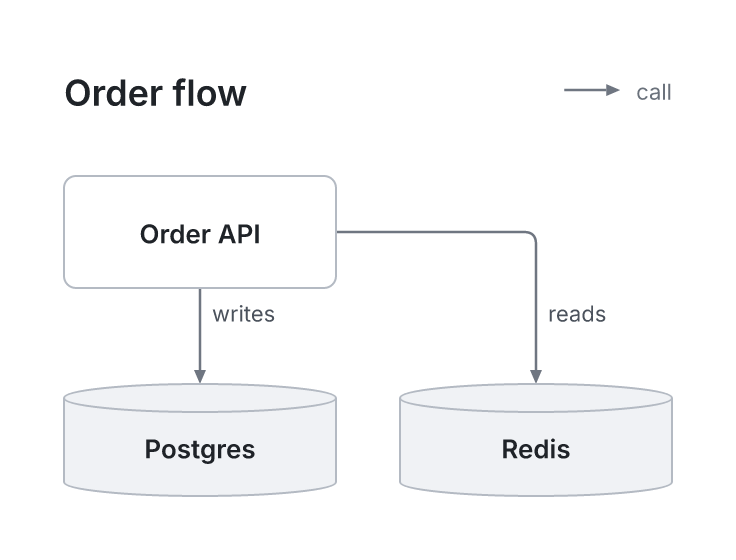
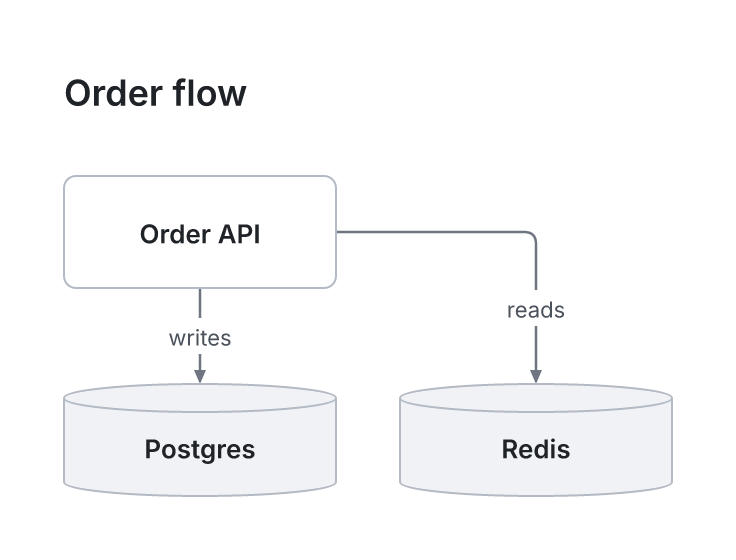
docs(readme): draw the pictures from .grafical files
The README says a diagram is one .grafical file while its pictures came from YAML files, and the pipeline picture still named the file YAML. Both sources move to the file form with the same facts, and the three pictures are drawn again.

Changed region(s): [[0.2188, 0.5464, 0.375, 0.6375], [0.75, 0.1518, 0.9375, 0.1821], [0.6875, 0.5161, 0.8438, 0.5768]]

diff --git a/plan/ROADMAP.md b/plan/ROADMAP.md
@@ -55,7 +55,7 @@ Roadmap
 │       ├── ⬜ One library
 │       ├── ⬜ Tune the form
 │       ├── ⬜ Small points of the file
-│       └── ⬜ The README's pictures in the file form
+│       └── ✅ The README's pictures in the file form
 ├── 🟨 CP2: Drawing more — what a picture can hold
 │   ├── ✅ CP2.1: Containers — groups · lanes · walls · notes
 │   │   ├── ✅ Edges that end at containers
@@ -391,10 +391,7 @@ A diagram is objects with types and styles, in a form of its own, before the fir
 - ⬜ Small points of the file: A diagram's optional type needs a name apart from a node's `type` · an attribute's colon may stay or go · `<style>` grows to every look grafical draws.
   - Found on 2026-11-06, and each is settled when the file is built.
   - Related: the spec "The .grafical file".
-- ⬜ The README's pictures in the file form: They are drawn from `.grafical.yaml` files while the README says a diagram is one `.grafical` file.
-  - The files are `docs/images/pipeline.grafical.yaml` and `docs/images/order-flow.grafical.yaml`.
-  - Found by the document check of 2026-11-09.
-  - Next: write both in the `.grafical` form and render the pictures again.
+- ✅ The README's pictures in the file form: Both pictures are drawn from `.grafical` files (2026-11-09).
 
 **Delivers:**
 

diff --git a/features/F6-output.md b/features/F6-output.md
@@ -13,7 +13,7 @@ What a diagram leaves behind: one file in git, the pictures drawn from it, a win
 
 ## F6.1: The diagram file
 
-One file, `<name>.grafical`, holds the whole diagram as facts: layers and nodes in order and groups and lanes and columns and walls and notes and edges. The picture on the front page of the README is drawn from [docs/images/pipeline.grafical.yaml](../docs/images/pipeline.grafical.yaml).
+One file, `<name>.grafical`, holds the whole diagram as facts: layers and nodes in order and groups and lanes and columns and walls and notes and edges. The picture on the front page of the README is drawn from [docs/images/pipeline.grafical](../docs/images/pipeline.grafical).
 
 - grafical writes it in a fixed key order, so the same facts give the same bytes and a change reads as a small diff in git.
 - It holds no coordinate.

diff --git a/README.md b/README.md
@@ -9,7 +9,7 @@
 
 An agent states what a diagram says, one operation at a time: this node is in that layer, connected to that one, colored like this. grafical decides where everything goes and lays the picture out again after every change. **The agent never gives a coordinate**, so only what it named changes and the picture always looks finished.
 
-grafical drew the picture above itself, from [docs/images/pipeline.grafical.yaml](docs/images/pipeline.grafical.yaml).
+grafical drew the picture above itself, from [docs/images/pipeline.grafical](docs/images/pipeline.grafical).
 
 ## What it does
 
